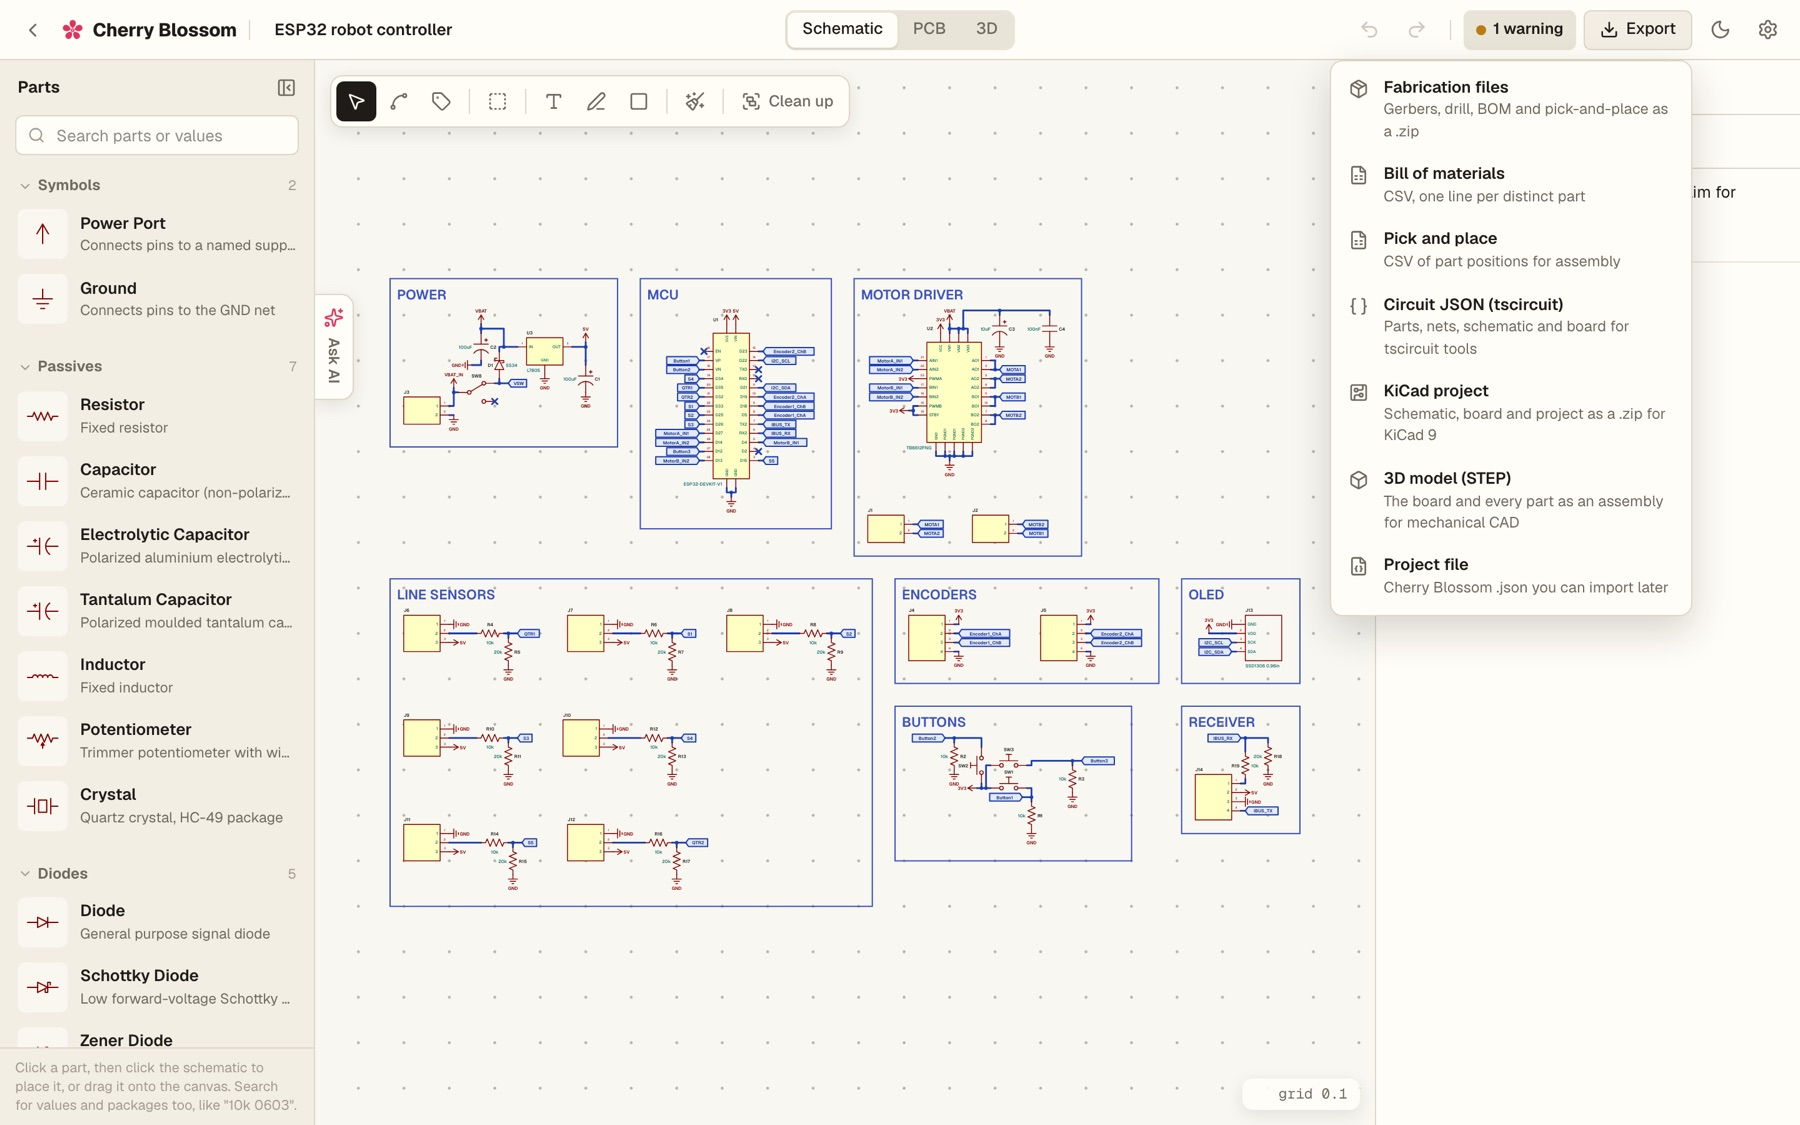
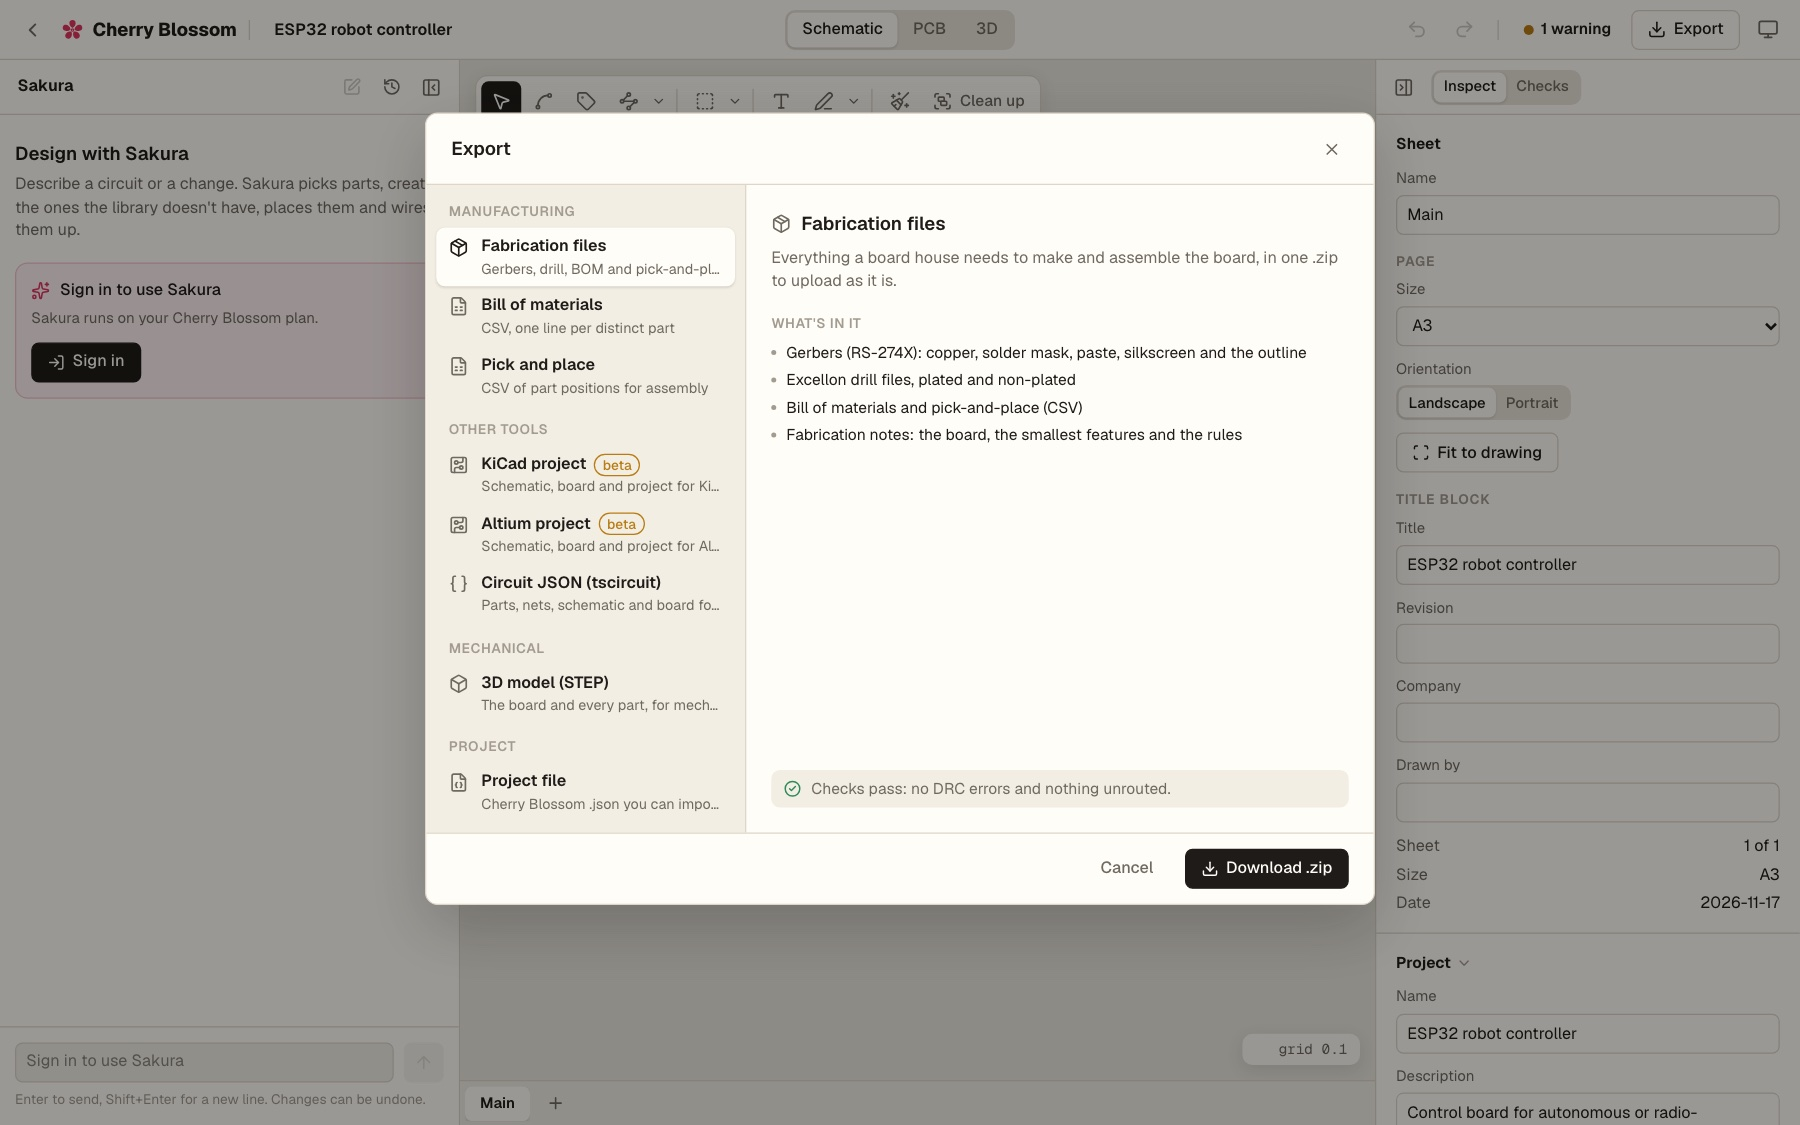
README: lead with building PCBs with AI, your own assistant over MCP or Sakura, and bring the features up to the Altium export, the Export dialog, layer display modes and the overlap pick list

diff --git a/README.md b/README.md
@@ -7,9 +7,10 @@
 <h1 align="center">Cherry Blossom</h1>
 
 <p align="center">
-  <b>A schematic and PCB editor that runs in your browser.</b><br>
-  Draw the schematic, lay out and route the board, check it, see it in 3D,<br>
-  and export Gerbers, KiCad and STEP. Open source, no install, no account.
+  <b>Build PCBs with AI, in an open-source editor that runs in your browser.</b><br>
+  Describe a board to Claude, ChatGPT, Cursor, Codex or Sakura, our copilot: it picks real parts,<br>
+  draws the schematic, lays out and routes the board, and checks its own work.<br>
+  Then take it from there by hand, and export Gerbers, KiCad, Altium and STEP.
 </p>
 
 <p align="center">
@@ -18,11 +19,13 @@
   <img alt="React 19" src="https://img.shields.io/badge/React-19-61dafb?style=flat-square&logo=react&logoColor=black">
   <img alt="Vite 7" src="https://img.shields.io/badge/Vite-7-646cff?style=flat-square&logo=vite&logoColor=white">
   <img alt="5,000+ tests" src="https://img.shields.io/badge/tests-5%2C000%2B-2f8a57?style=flat-square">
+  <img alt="MCP server for your own AI" src="https://img.shields.io/badge/MCP-your%20own%20AI-8b5cf6?style=flat-square">
   <img alt="Status: early" src="https://img.shields.io/badge/status-early-d69e2e?style=flat-square">
 </p>
 
 <p align="center">
   <a href="https://www.trycherryblossom.com/app"><b>Open the hosted app</b></a> ·
+  <a href="https://www.trycherryblossom.com/docs/mcp"><b>Connect your AI</b></a> ·
   <a href="https://www.trycherryblossom.com">trycherryblossom.com</a> ·
   <a href="https://github.com/cherryblossomhq/webapp/issues">Report a bug</a>
 </p>
@@ -36,16 +39,19 @@
 </p>
 
 > [!NOTE]
-> **This is the editor behind [trycherryblossom.com](https://www.trycherryblossom.com).**
-> The hosted app adds accounts, projects in the cloud that you share and edit
-> together, version history, supplier part data, KiCad's 3D models and
-> **Sakura**, an AI copilot that builds circuits from a sentence. Everything in
-> this repository — the whole editor, by hand — runs locally with no backend.
+> **This is the editor behind [trycherryblossom.com](https://www.trycherryblossom.com), and the tools AI designs with in it.**
+> Every action an AI takes on a board, from finding a part to routing the PCB,
+> is a tool in this repository ([`src/ai`](src/ai)), run on the same document
+> model and held to the same rules as your own edits. The hosted app connects
+> the AI (your own assistant over MCP, or Sakura) and adds accounts, projects in
+> the cloud that you share and edit together, version history, supplier part
+> data and KiCad's 3D models. Everything in this repository, the whole editor
+> by hand, runs locally with no backend.
 
 <p align="center">
+  <a href="#build-pcbs-with-ai">Build PCBs with AI</a> ·
   <a href="#features">Features</a> ·
   <a href="#everything-in-the-box">Everything in the box</a> ·
-  <a href="#sakura-the-ai-copilot">Sakura</a> ·
   <a href="#under-the-hood">Under the hood</a> ·
   <a href="#get-started">Get started</a> ·
   <a href="#contributing">Contributing</a> ·
@@ -57,25 +63,145 @@
 <table>
   <tr>
     <td width="25%" valign="top">
+      <h3>🤖 Built for AI</h3>
+      Describe a board and an AI picks real parts, wires the schematic, places and routes the PCB and runs the checks, with tools that refuse to short a net. Every step is an ordinary edit you can see, change or roll back.
+    </td>
+    <td width="25%" valign="top">
       <h3>📐 Drawn like a sheet</h3>
       KiCad's proportions on a 50 mil grid, named blocks, net labels and power ports. Tidy redraws a messy sheet as an engineering drawing in one keystroke, without changing what's connected.
     </td>
     <td width="25%" valign="top">
-      <h3>⚡ Routed in seconds</h3>
-      Automatic placement that knows a regulator's power stage, an autorouter with net classes, per-net widths and fine-pitch escapes, and copper pours and zones with thermals and stitching vias.
-    </td>
-    <td width="25%" valign="top">
-      <h3>✅ Checked before you order</h3>
-      Clearance, shorts, unrouted nets, courtyards, annular rings and the rest of the design rules, plus electrical checks that catch an LED with no resistor.
+      <h3>⚡ Routed and checked</h3>
+      Placement that knows a regulator's power stage, an autorouter with net classes, per-net widths and fine-pitch escapes, copper pours with thermals, and design rule and electrical checks before you order.
     </td>
     <td width="25%" valign="top">
       <h3>📦 KiCad in, fab files out</h3>
-      Import a KiCad project, board or schematic. Export Gerbers, Excellon drill, BOM and pick-and-place in one zip, with fabrication notes, or take the board elsewhere: KiCad, Circuit JSON and STEP.
+      Import a KiCad project, board or schematic. Export Gerbers, drill, BOM and pick-and-place in one zip, or take the board elsewhere: KiCad, Altium, Circuit JSON and STEP.
     </td>
   </tr>
 </table>
 
 <br>
+
+## Build PCBs with AI
+
+Cherry Blossom is an editor made for AI to design in, not a chat box bolted onto
+one. The schematic, the board and the checks are one typed model, and every
+action an AI can take is a tool with rules it can't break: it can't short two
+nets, cut a pin loose or guess a pinout without saying so. When it tries, the
+tool refuses with a sentence saying why, and the AI tries again. What you get
+back is an ordinary project: a schematic you can read, a board you can edit,
+and files a fab will take.
+
+There are two ways to bring the AI:
+
+<table>
+  <tr>
+    <td width="50%" valign="top">
+      <h3>🔌 Your own AI, over MCP</h3>
+      <b>Claude, ChatGPT, Claude Code, Codex, Cursor</b> or any MCP client gets Sakura's tools on your projects, through the hosted app's MCP server. It runs on the AI subscription you already pay for, so it's <b>free on every plan</b>, Free included.
+      <br><br>
+      Its edits land live in any editor tab that has the project open, like a collaborator's, so you can watch the board come together.
+      <br><br>
+      <a href="https://www.trycherryblossom.com/docs/mcp"><b>Setup guide →</b></a>
+    </td>
+    <td width="50%" valign="top">
+      <h3>🌸 Sakura, the copilot in the editor</h3>
+      Nothing to install or connect: open a project and ask. Sakura searches the web and reads datasheets, builds the parts the library doesn't have from supplier data, wires and tidies the sheet, places and routes the board, runs the checks and looks at its own work before it reports.
+      <br><br>
+      Every change it makes can be undone like your own, and your chats are kept with each project. Included from the <b>Pro</b> plan.
+      <br><br>
+      <a href="https://www.trycherryblossom.com/app"><b>Open the app →</b></a>
+    </td>
+  </tr>
+</table>
+
+### Connect your AI in a minute
+
+**Claude Code, Codex and Cursor:** the [Cherry Blossom plugin](https://github.com/cherryblossomhq/skills)
+adds the MCP server and skills that teach your agent how to work in Cherry Blossom.
+
+```bash
+# Claude Code: then run /mcp in Claude Code to sign in
+claude plugin marketplace add cherryblossomhq/skills
+claude plugin install cherryblossom@cherryblossom
+
+# Codex: it opens the sign-in in your browser
+codex plugin marketplace add cherryblossomhq/skills
+codex plugin add cherryblossom@cherryblossom
+
+# Cursor: then Developer: Reload Window, and sign in from Cursor's MCP settings
+git clone https://github.com/cherryblossomhq/skills ~/.cursor/plugins/local/cherryblossom
+```
+
+**Claude, ChatGPT and any other MCP client:** add this URL as a custom
+connector (a remote MCP server, Streamable HTTP, with OAuth sign-in). Your
+assistant opens Cherry Blossom's sign-in; sign in and allow it. There is no API
+key to make or paste.
+
+```text
+https://www.trycherryblossom.com/api/mcp
+```
+
+The [setup guide](https://www.trycherryblossom.com/docs/mcp) has every client's
+steps. Then ask:
+
+> Make a new Cherry Blossom project for a 555 LED blinker, lay out and route the board, and check it.
+
+> Export the Gerbers for my LED blinker.
+
+### What the AI can do
+
+- **Start from a sentence.** Create a project, find real parts by value, package
+  or part number, read their datasheets, and build any part the library doesn't
+  have from supplier data, its pins and land pattern checked against the
+  supplier's (`find_part`, `search_parts`, `read_datasheet`, `create_part`).
+- **Draw the schematic.** Place parts, connect pins and name nets, group a
+  circuit into blocks, and tidy the sheet into a drawing an engineer can read,
+  across hierarchical sheets (`add_component`, `connect`, `group_parts`,
+  `tidy_schematic`).
+- **Lay out and route the board.** Set the outline and the stackup, place parts
+  by what they do (each decoupling capacitor at the pin it serves), size traces
+  for their current, autoroute, pour ground, and draw a trace by hand where it
+  matters (`set_board`, `layout_pcb`, `set_net_width`, `route_pcb`, `set_pour`,
+  `draw_trace`).
+- **Check its own work.** Run the design rule and electrical checks, and `look`
+  at the schematic or the board: a picture with the numbers behind it
+  (overlaps, wires through symbols, unconnected pins, parts off the board,
+  unrouted connections), so it fixes what it sees before it reports.
+- **Save and go back.** Name a version before a big change and restore it if
+  the change goes wrong (`save_version`, `restore_version`).
+- **Hand you the files.** Fabrication files, the BOM and pick-and-place, a KiCad
+  or Altium project with its 3D models, a STEP model or the project file, as a
+  download link (`export_files`, over MCP).
+
+### Why the boards come out right
+
+- **Nets are sacred.** Every tool call is checked against the netlist. An edit
+  that would join two nets nobody asked to join, or leave a pin loose, is
+  refused with the pins and nets named, and changes nothing
+  ([`src/model/merges.ts`](src/model/merges.ts)).
+- **Real parts, not remembered ones.** Parts come from supplier data when a
+  supplier has them; a part made from memory is marked unverified, and the
+  checks say so.
+- **It sees what it made.** `look` draws the sheet or the board as you see it,
+  and the checks point at each problem by part, pin and place.
+- **One design guide for every AI.** Sakura's prompt and the MCP server's
+  instructions are built from the same guide
+  ([`src/ai/designGuide.ts`](src/ai/designGuide.ts)): how to group a circuit,
+  decouple a chip, wire a block a reader can follow, and route a board, so your
+  own assistant designs by the same rules as Sakura.
+- **Its edits are your edits.** The same document model and the same rules as
+  your own. Sakura's steps are on your undo stack; your own assistant's land
+  live like a collaborator's, and it saves a version before a big change that
+  you can go back to. Nothing the AI makes is a black box you have to accept or
+  throw away.
+
+Sakura's tools, agent loop and design guide are in this repository
+([`src/ai`](src/ai)) and run in the browser; the models, the MCP server and the
+supplier data they call are the hosted app's. A local build has no session, so
+its Sakura panel offers to sign in at the hosted app instead of calling
+anything.
 
 ## Features
 
@@ -100,6 +226,8 @@ Every screenshot here is the editor as it runs from this repository, on its ship
       Auto-placement puts each decoupling capacitor beside the pin it serves, and a regulator's capacitors, inductor and feedback divider at its pins. The autorouter runs A* on every copper layer with vias, net-aware clearances, KiCad's hole clearance and per-net trace widths, takes up and re-lays what blocks a connection it left open, and keeps the copper you routed by hand.
       <br><br>
       Interactive routing with 45° bends, arcs and vias, traces reshaped by dragging their segments and corners, up to 32 copper layers with blind and buried vias, bottom-side parts, any board outline, mounting holes, text in KiCad's own font, dimensions, and pours and zones with thermal spokes and stitching vias.
+      <br><br>
+      The layer you work on is drawn in front, the others softer, dimmed or hidden (<code>⇧S</code>), and pours filled, outlined or off. Double-click where tracks, pads and silkscreen overlap and pick the one you meant from a list, as Altium does.
     </td>
   </tr>
   <tr>
@@ -124,11 +252,11 @@ Every screenshot here is the editor as it runs from this repository, on its ship
   </tr>
   <tr>
     <td width="50%" valign="top">
-      <img src="docs/images/export.jpg" alt="The Export menu open over a schematic: Fabrication files, Bill of materials, Pick and place, Circuit JSON, KiCad project, 3D model (STEP) and Project file" width="100%">
+      <img src="docs/images/export.jpg" alt="The Export dialog open over the ESP32 robot controller: formats grouped as Manufacturing, Other tools, Mechanical and Project, with Fabrication files selected, what its zip holds, and a note that the checks pass with no DRC errors and nothing unrouted" width="100%">
       <br>
-      <sub>Everything a fab, an assembler or another tool needs, from one menu.</sub>
+      <sub>Everything a fab, an assembler or another tool needs, and what the board still lacks, before you download.</sub>
       <h3>Take it anywhere</h3>
-      RS-274X Gerbers with pours, mask and paste, Excellon drill with slots, a BOM, pick-and-place and fabrication notes, zipped. A KiCad 9 project with the rules and net classes carried over, Circuit JSON for tscircuit, and the whole board as a STEP assembly for mechanical CAD.
+      RS-274X Gerbers with pours, mask and paste, Excellon drill with slots, a BOM, pick-and-place and fabrication notes, zipped. A KiCad 9 project with the rules and net classes carried over, an Altium Designer project (beta), each with the parts' 3D models, Circuit JSON for tscircuit, and the whole board as a STEP assembly for mechanical CAD. The Export dialog says what each file holds and what the board still needs before it's made.
       <br><br>
       <b>KiCad in, too.</b> A KiCad project, board or schematic imports with its sheets, buses, zones, net classes and rules (KiCad 6 and later, and the schematics of KiCad 4 and 5). What the editor can't hold yet is named in a report, never dropped quietly, and the original files are kept with the project.
     </td>
@@ -162,37 +290,20 @@ Every screenshot here is the editor as it runs from this repository, on its ship
       <h4>✏ Schematic</h4>
       Wires · net labels · global labels and ports · power and ground ports · junctions · no-connect flags · blocks · hierarchical sheets with entries drawn by hand · pages with a border, zones and a title block that fills itself in · buses · variants · text, lines, arrows, polygons and rectangles for titles and notes · copy, paste and duplicate · Tidy · Clean up · rotate, flip and drag with nets kept intact.
       <h4>🟥 PCB</h4>
-      Auto-place · re-pack · autoroute on every layer · interactive routing · trace reshaping · arcs · vias · up to 32 copper layers · net classes · per-net widths · copper pours and zones · keepouts · thermal spokes · stitching vias · locked parts and copper · any board outline, cutouts, mounting holes · dimensions · reference images · stackup, copper weight, finish, mask and silkscreen colours · design rules in mm or mil.
+      Auto-place · re-pack · autoroute on every layer · interactive routing · trace reshaping · arcs · vias · up to 32 copper layers · net classes · per-net widths · copper pours and zones · keepouts · thermal spokes · stitching vias · locked parts and copper · any board outline, cutouts, mounting holes · dimensions · reference images · other layers shown, dimmed or hidden · a pick list where things overlap · designators moved, hidden or reset · stackup, copper weight, finish, mask and silkscreen colours design rules in mm or mil.
     </td>
     <td width="33%" valign="top">
       <h4>📤 Exports</h4>
-      Gerber RS-274X · Excellon drill · BOM CSV · pick-and-place CSV · fabrication notes · KiCad 9 project · Circuit JSON · STEP AP214 assembly · PNG from the 3D view · the project file.
+      Gerber RS-274X · Excellon drill · BOM CSV · pick-and-place CSV · fabrication notes · KiCad 9 project with 3D models · Altium Designer project with 3D models (beta) · Circuit JSON · STEP AP214 assembly · PNG from the 3D view · the project file.
       <h4>⌨ Shortcuts</h4>
       Schematic: <code>W</code> wire · <code>L</code> label · <code>B</code> block · <code>R</code> rotate · <code>T</code> tidy · <code>⌘G</code> group.<br>
-      PCB: <code>W</code> route · <code>V</code> via · <code>L</code> layer · <code>F</code> flip.<br>
+      PCB: <code>W</code> route · <code>V</code> via · <code>L</code> layer · <code>F</code> flip · <code>⇧S</code> other layers.<br>
       Both: <code>⌘Z</code> undo · <code>[</code> <code>]</code> panels. The full list is in <a href="AGENTS.md#shortcuts">AGENTS.md</a>.
     </td>
   </tr>
 </table>
 
 <br>
-
-## Sakura, the AI copilot
-
-The hosted app at [trycherryblossom.com](https://www.trycherryblossom.com/app) adds **Sakura**:
-describe a circuit or a change, and it picks parts, builds the ones the library
-doesn't have from supplier data, places and wires them, groups and annotates the
-sheet, lays out and routes the board, runs the checks, and looks at its own work
-before it reports. Every step is an ordinary edit you can undo.
-
-Sakura's tools and agent loop are in this repository (`src/ai`), and run in the
-browser; the models and the supplier data they call are the hosted app's. A local
-build has no session, so its Sakura panel offers to sign in at the hosted app
-instead of calling anything.
-
-The hosted app also gives an AI assistant you already use (Claude, ChatGPT,
-Cursor, Claude Code or any MCP client) Sakura's tools on your projects, through
-its MCP server. That server is part of the hosted app, not this repository.
 
 ## Under the hood
 
